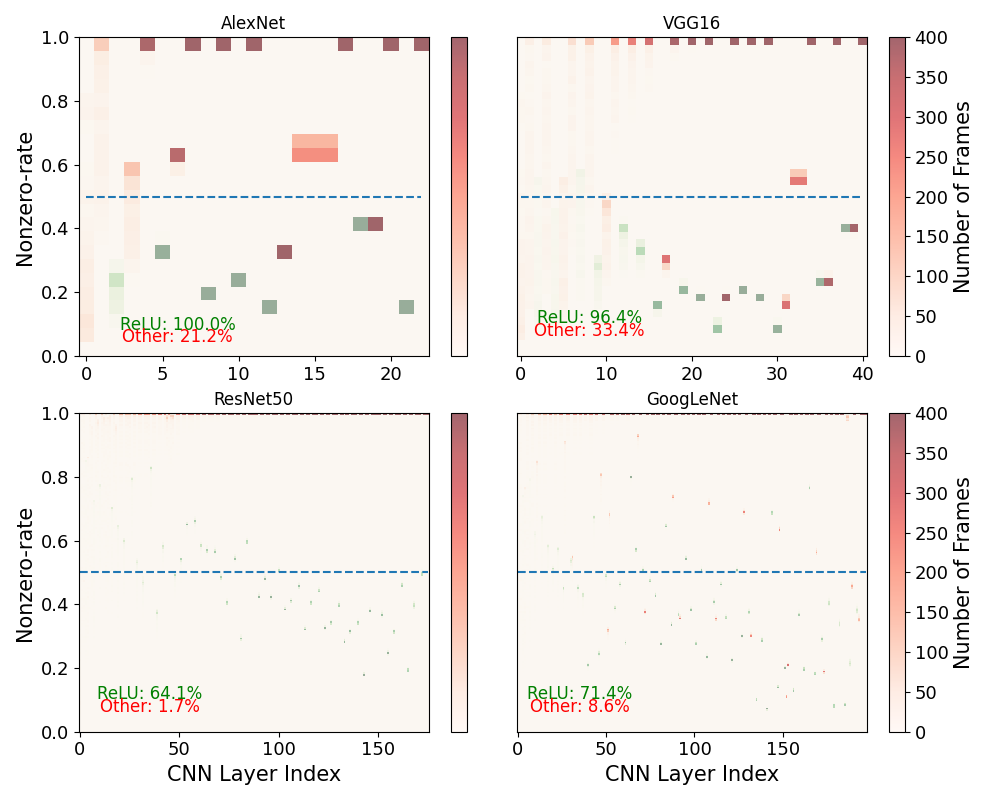
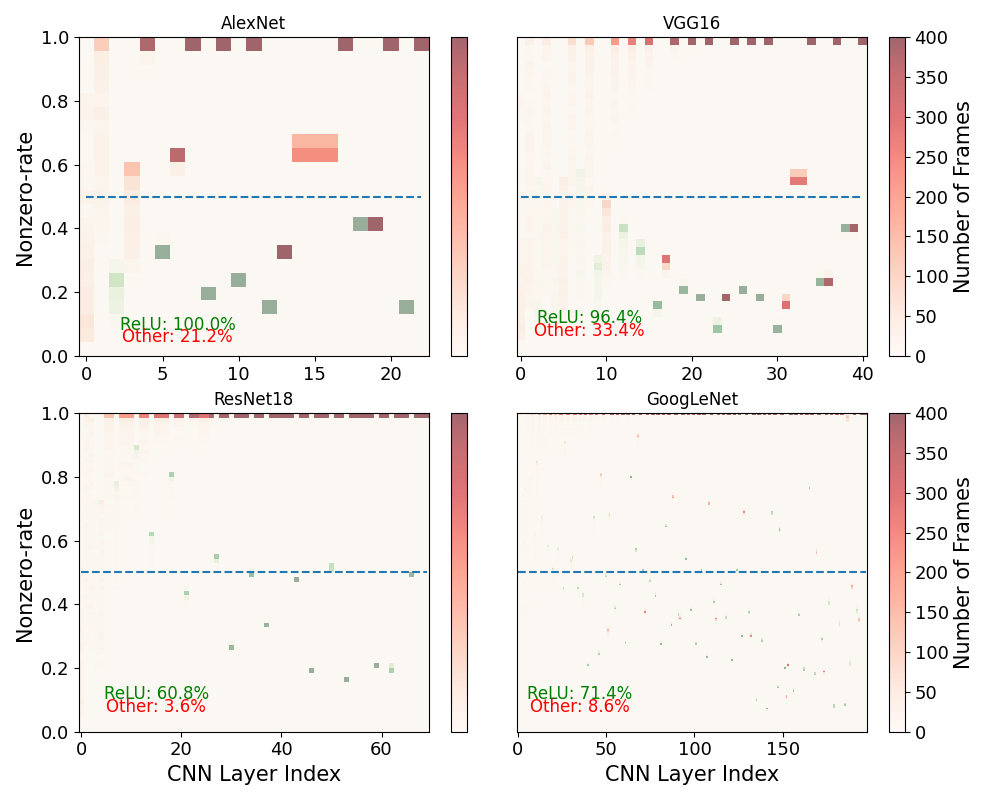
update for none_zero_rate resnet18

diff --git a/none_zero_rate/none_zero_of_two_rlmx.py b/none_zero_rate/none_zero_of_two_rlmx.py
@@ -10,7 +10,7 @@ from matplotlib.ticker import MaxNLocator
 
 from core.dag_dnn import DagDNN
 from model_split import Node
-from dnn_models.any_dnn_split import prepare_alexnet, prepare_vgg16, prepare_resnet50, prepare_googlenet
+from dnn_models.any_dnn_split import prepare_alexnet, prepare_vgg16, prepare_resnet18, prepare_googlenet
 import numpy as np
 from torch.nn import ReLU, MaxPool2d
 plt.rc('font',family='Times New Roman')
@@ -73,7 +73,7 @@ def generate_data(CNN_NAME, ORIGINAL):
     cnn_loaders = {'AlexNet': prepare_alexnet,
                    'VGG': prepare_vgg16,
                    'GoogLeNet': prepare_googlenet,
-                   'ResNet': prepare_resnet50}
+                   'ResNet': prepare_resnet18}
     dag_dnn = DagDNN(cnn_loaders[CNN_NAME]())
     r_layers = dag_dnn.layers
     with open(file_name, 'rb') as f:
@@ -116,7 +116,7 @@ if __name__ == '__main__':
     # 处理 GoogLeNet 数据
     x_relu_gn, y_relu_gn, x_other_gn, y_other_gn, xedges_gn, yedges_gn, nlayer_gn, nframe_gn, sps_cnt_relu_gn, sps_cnt_other_gn = generate_data('GoogLeNet', ORIGINAL)
 
-    # 处理 ResNet50 数据
+    # 处理 ResNet18 数据
     x_relu_res, y_relu_res, x_other_res, y_other_res, xedges_res, yedges_res, nlayer_res, nframe_res, sps_cnt_relu_res, sps_cnt_other_res = generate_data('ResNet', ORIGINAL)
 
     # 创建图形
@@ -154,17 +154,17 @@ if __name__ == '__main__':
     cbar.set_label('Number of Frames', fontproperties=lg)
     plt.gca().tick_params(left=False, labelleft=False)  # 去除左边刻度线和刻度文字
 
-    # 绘制 ResNet50 图
+    # 绘制 ResNet18 图
     plt.subplot(223)
     plt.tick_params(labelsize=13)
-    plt.title('ResNet50')
+    plt.title('ResNet18')
     plt.hist2d(x_relu_res, y_relu_res, bins=(xedges_res, yedges_res), cmap='Greens', label='ReLU')
     plt.hist2d(x_other_res, y_other_res, bins=(xedges_res, yedges_res), cmap='Reds', alpha=0.6, label='Other')
     plt.plot([0, nlayer_res - 1], [0.5, 0.5], linestyle='--')
     sparse_relu = round(sps_cnt_relu_res / len(x_relu_res) * 100, 1)
     sparse_other = round(sps_cnt_other_res / len(x_other_res) * 100, 1)
-    plt.text(35, 0.09, f'ReLU: {sparse_relu}%', ha='center', va='bottom', fontsize=12, color='green')
-    plt.text(35, 0.05, f'Other: {sparse_other}%', ha='center', va='bottom', fontsize=12, color='red')
+    plt.text(15, 0.09, f'ReLU: {sparse_relu}%', ha='center', va='bottom', fontsize=12, color='green')
+    plt.text(15, 0.05, f'Other: {sparse_other}%', ha='center', va='bottom', fontsize=12, color='red')
     plt.gca().set_xlabel('CNN Layer Index', fontproperties=lg)
     plt.gca().set_ylabel('Nonzero-rate', fontproperties=lg)
     cbar = plt.colorbar()

diff --git a/none_zero_rate/none_zero_rate_of_one_rlmx.py b/none_zero_rate/none_zero_rate_of_one_rlmx.py
@@ -10,7 +10,7 @@ from matplotlib.ticker import MaxNLocator
 
 from core.dag_dnn import DagDNN
 from model_split import Node
-from dnn_models.any_dnn_split import prepare_alexnet, prepare_vgg16, prepare_resnet50, prepare_googlenet
+from dnn_models.any_dnn_split import prepare_alexnet, prepare_vgg16, prepare_resnet18, prepare_googlenet
 import numpy as np
 from torch.nn import ReLU, MaxPool2d
 plt.rc('font',family='Times New Roman')
@@ -67,7 +67,7 @@ def generate_data(CNN_NAME, ORIGINAL):
     cnn_loaders = {'AlexNet': prepare_alexnet,
                    'VGG': prepare_vgg16,
                    'GoogLeNet': prepare_googlenet,
-                   'ResNet': prepare_resnet50}
+                   'ResNet': prepare_resnet18}
     dag_dnn = DagDNN(cnn_loaders[CNN_NAME]())
     r_layers = dag_dnn.layers
     with open(file_name, 'rb') as f:
@@ -110,7 +110,7 @@ if __name__ == '__main__':
     # 处理 GoogLeNet 数据
     x_relu_gn, y_relu_gn, x_other_gn, y_other_gn, xedges_gn, yedges_gn, nlayer_gn, nframe_gn, sps_cnt_relu_gn, sps_cnt_other_gn = generate_data('GoogLeNet', ORIGINAL)
 
-    # 处理 ResNet50 数据
+    # 处理 ResNet18 数据
     x_relu_res, y_relu_res, x_other_res, y_other_res, xedges_res, yedges_res, nlayer_res, nframe_res, sps_cnt_relu_res, sps_cnt_other_res = generate_data('ResNet', ORIGINAL)
 
     # 创建图形
@@ -151,17 +151,17 @@ if __name__ == '__main__':
     cbar.set_label('Number of Frames', fontproperties=lg)
     plt.gca().tick_params(left=False, labelleft=False)  # 去除左边刻度线和刻度文字
 
-    # 绘制 ResNet50 图
+    # 绘制 ResNet18 图
     plt.subplot(223)
     plt.tick_params(labelsize=13)
-    plt.title('ResNet50')
+    plt.title('ResNet18')
     plt.hist2d(x_relu_res, y_relu_res, bins=(xedges_res, yedges_res), cmap='Greens', label='ReLU')
     plt.hist2d(x_other_res, y_other_res, bins=(xedges_res, yedges_res), cmap='Reds', alpha=0.6, label='Other')
     plt.plot([0, nlayer_res - 1], [0.5, 0.5], linestyle='--')
     sparse_relu = round(sps_cnt_relu_res / len(x_relu_res) * 100, 1)
     sparse_other = round(sps_cnt_other_res / len(x_other_res) * 100, 1)
-    plt.text(35, 0.05, f'Other: {sparse_other}%', ha='center', va='bottom', fontsize=12, color='red')
-    plt.text(35, 0.09, f'ReLU: {sparse_relu}%', ha='center', va='bottom', fontsize=12, color='green')
+    plt.text(15, 0.05, f'Other: {sparse_other}%', ha='center', va='bottom', fontsize=12, color='red')
+    plt.text(15, 0.09, f'ReLU: {sparse_relu}%', ha='center', va='bottom', fontsize=12, color='green')
     plt.gca().set_xlabel('CNN Layer Index', fontproperties=lg)
     plt.gca().set_ylabel('Nonzero-rate', fontproperties=lg)
     cbar = plt.colorbar()
